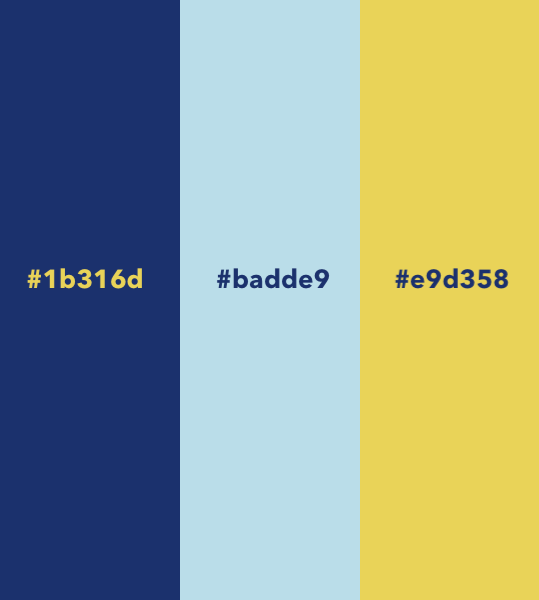
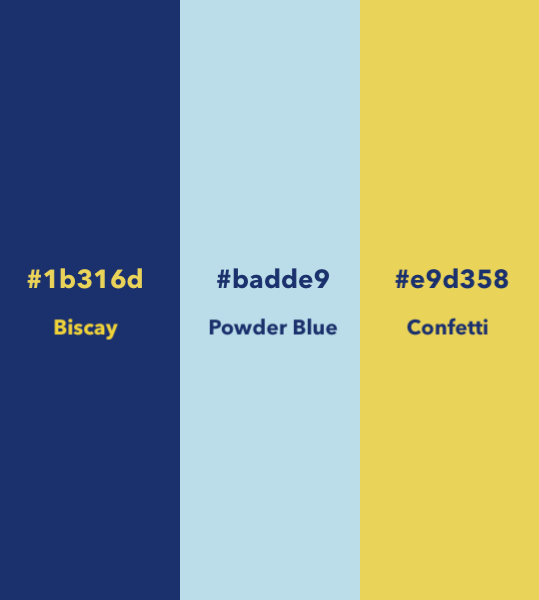
doc: update README

Changed region(s): [[0.3859, 0.51, 0.6234, 0.57], [0.7421, 0.51, 0.9202, 0.57], [0.0891, 0.51, 0.2375, 0.57]]

diff --git a/README.md b/README.md
@@ -21,11 +21,11 @@ This website is showcasing Javascript, HTML and CSS design for Project Portfolio
     - [Web Wireframe](#web-browser-wireframe)
     - [Tablet Wireframe](#tablet-wireframe)
     - [Mobile Wireframe](#mobile-wireframe)
-- [Design](#design)
-  - [Colour Scheme](#colour-scheme)
-    -  [Jet Stream](#jet-stream)
-    - [Illusion](#illusion)
-  - [Typography](#typography)
+  - [Surface](#surface)
+    - [Colour Scheme](#colour-scheme)
+    - [Imagery](#imagery)
+    - [Logo](#logo)
+    - [Typography](#typography)
 - [Features](#features)
   - [Existing Features](#existing-features)
   - [Features Left to Implement](#features-left-to-implement)
@@ -68,60 +68,56 @@ The objective of the site is to create a two player memory card game directed to
  - The site should give feedback on successful matches.
  - The site should keep track of the scores. and 
  - There should be a game outcome feedback once all cards are turned over.
- - There should be alt text describing each animal image for visually impaired users.
+ - There should be alt text describing each animal image for visually impaired users. <br><br>
 #### Optional Content
 - The site will have background music.
-- The site will have audible effects or descriptions for each animal when the cards are turned over and matched.
+- The site will have audible effects or descriptions for each animal when the cards are turned over and matched. <br><br>
 ### Structure
  - The site will have a logo at the top of the page.
  - There will be a game section containing all of the game elements.
  - The first element will be a game information div.
  - The next will be a game grid consisting of 16 cards arranged in a 4 x 4 grid.
  - Each card will have a front and reverse with a blank side and then an hidden animal at the back.
- - There will be a game information area which will keep track of player turns and their respective scores.
+ - There will be a game information area which will keep track of player turns and their respective scores.<br><br>
 ### Skeleton
 #### Web Browser Wireframe
-![Web-Wireframe](/assets/README-files/web-browser-wireframe.png) 
+![Web-Wireframe](/assets/README-files/web-browser-wireframe.png) <br><br>
 #### Tablet Wireframe
-![Tablet-Wireframe](/assets/README-files/tablet-wireframe.png) 
+![Tablet-Wireframe](/assets/README-files/tablet-wireframe.png)  <br><br>
 #### Mobile Wireframe
-![Mobile-Wireframe](/assets/README-files/mobile-wireframe.png) 
+![Mobile-Wireframe](/assets/README-files/mobile-wireframe.png) <br><br>
 
 ### Surface
-## Design
-### Colour Scheme
-![Site Logo](/assets/README-files/color-palette.png)
-### Logo
+#### Colour Scheme
+![Colour Palette](/assets/README-files/color-palette.png)
+- The site colours are based around three strong colours as shown in the palette. 
+- The colours were chosen to create a striking contrast, especially between the Confettie and Biscay colours.
+- Another consideration was to have colours that stood out agains the background image. <br><br>
+#### Imagery
+![Background Image](/assets/images/jungle.jpg)
+- The background image was selcted to again cater for the visual needs of children and as a way of introducing them and other users to the game.<br><br>
+#### Logo
 ![Site Logo](/assets/README-files/logo.png)
-- The choice of site logo was based upon one that would be fun and engaging for children and have an immediate connection with the content. 
-
-- 
-- 
-
-### Typography
-
-All fonts were sourced from Google Fonts. The main font used throughout is called 'Love Ya Like A Sister' which was selected for it's fun characteristics that children can relate too even if they cannot read. Raleway was selected for button font to make it stand out to adults who will normally be controlling the game.
-
- - 
-<br><br>
+- The choice of site logo was based upon one that would be fun and engaging for children and have an immediate connection with the content. <br><br>
+#### Typography
+- All fonts were sourced from Google Fonts. The main font used throughout is called 'Love Ya Like A Sister' which was selected for it's fun characteristics that children can relate too even if they cannot read. Raleway was selected for button font to make it stand out to adults who will normally be controlling the game.<br><br>
 
 ## Features 
 
 ### Existing Features
 
-- __The Game Information Div__ <br><br>
+- __The Game Information Area__ <br><br>
 ![Game-Information](assets/README-files/game-information.png)
 
   - The game information div contains an `<h2>` welcome message and short `<p>` giving an overview of the game. There are two buttons at the bottom of the div -  *New Game* and *How To Play*. The former button gives the option to restart the game whilst the latter directs the user to an instructions div described below. The buttons are styled to have an embossed look using inset box shadows along with an outset shadow. The buttons have mousedown and mouseup event listeners where the mousedown removes the outset shadow and the mouseup returns the styling to normal. This creates the impression of the button being pressed and springing back to position once released.<br><br>
-- __The Game Instructions Div__ <br><br>
+- __The Game Instructions__ <br><br>
 ![Game-Instructions](/assets/README-files/game-instructions.jpg) 
 
   - When the *How To Play* button is pressed two divs  - blurred and instructions - are made visible from their default hidden property. The blurred div covers the entire screen and creates a visual effect that accentuates the instructions div and contents and helps create a contrast against the backdrop of the game. The instructions div contains an `<ol>` of instructions followed by *New Game* and *Go Back* buttons. The former button completes the same action as its namesake described in Game Information above, whilst the latter returns the user to the current game. Both buttons return the two divs to their default visibility status of hidden.<br><br>
 
-- __The Player Information Div__ <br><br>
+- __The Player Information Area__ <br><br>
 ![Player-Information](/assets/README-files/player-info.gif)
-  - The player info div contains two divs showing which player's turn it is and a scores area. The player info updates dynamically once the players turn changes. The scores area contains the player scores and updates on a successful match of animals. In order to draw the users attention here after the site loads or a new game is selected, the elements animate in after a short time delay.
-
+  - The player info div contains two divs showing which player's turn it is and a scores area. The player info updates dynamically once the players turn changes. The scores area contains the player scores and updates on a successful match of animals. In order to draw the users attention here after the site loads or a new game is selected, the elements animate in after a short time delay.<br><br>
 - __The Game Area__ <br><br>
 ![Game Area](/assets/README-files/game-area-flip-two-cards.gif)
     - The game area consists of a div of the site blue colour with embossed edges and rounded corners. A 4 x 4 grid element is contained within this div and holds all 16 of the game cards. 
@@ -130,24 +126,21 @@ All fonts were sourced from Google Fonts. The main font used throughout is calle
     - When an unsuccessful match is made, the cards turn back around and the turn changes to the alternate player.
     - When a successful match is made, a congratualtory message (described below) is displayed and the incumbent player gets another turn.
     - The cards remain turned over revealing the animal pictures after a successful match.
-    - The game continues until all animal pairs are matched at which point a game outcome message appears, again described below.
+    - The game continues until all animal pairs are matched at which point a game outcome message appears, again described below. <br><br>
 
 - __The Congratulatory Message__ <br><br>
 ![Congratulatory Message](/assets/README-files/match-animals.gif)
     - As described above, when the user successfully matches two animals they are presented with a congratulatory message. This takes the form of a star to make it visually engaging for children. The animal name is passed into the `<span>` at the end of the congratulatory message.
-    - There is also a background div covering the entire view which introduces a blurred effect to slightly obscure the background and create a greater contrast with the star.
+    - There is also a background div covering the entire view which introduces a blurred effect to slightly obscure the background and create a greater contrast with the star.<br><br>
 
+- __The Game Outcome__ <br><br>
+![Game Outcome](/assets/README-files/game-outcome.gif)
+   - Once the final pair of animals are successfully matched, an outcome star.
+
+  - 
 - __The Footer__ <br><br>
 ![Footer](/assets/README-files/footer.jpg)
     - Add detail here.
-
-
- 
-- __The Congratulations Page__
-![Thank You Page](/assets/README-files/thank-you-form.jpg)
-  - 
-
-
 
 ### Features Left to Implement
 - 
